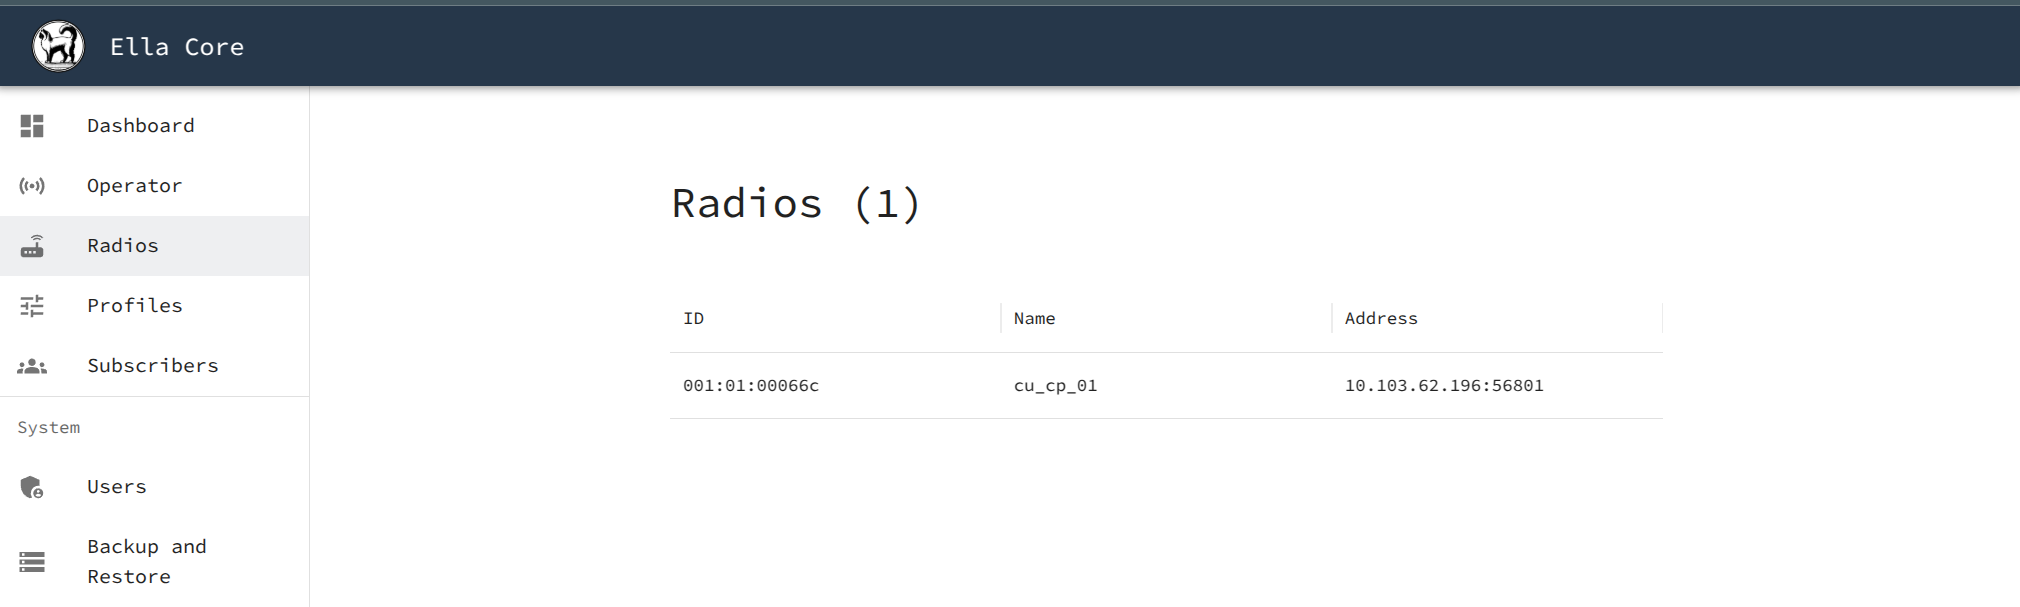
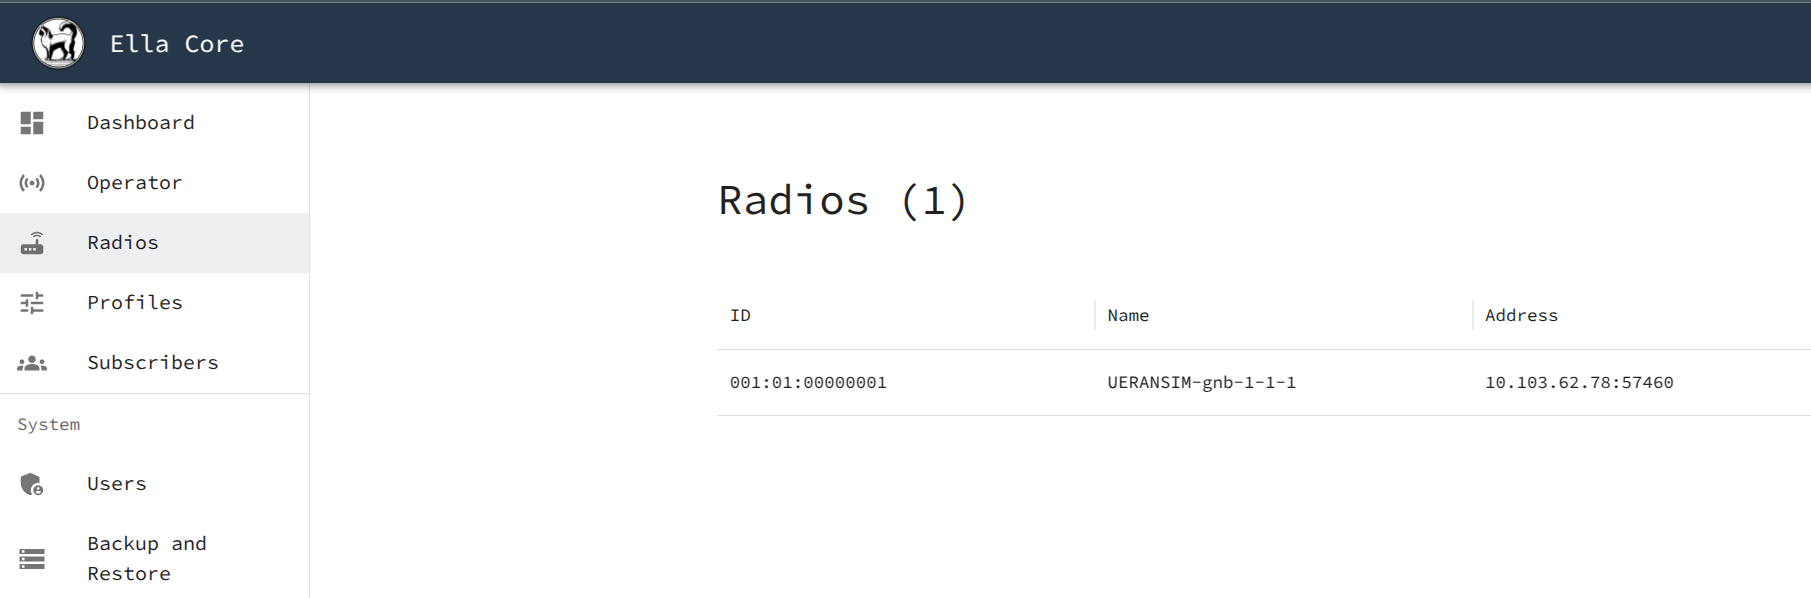
docs: add ue simulation to tutorial

diff --git a/internal/smf/producer/pdu_session.go b/internal/smf/producer/pdu_session.go
@@ -92,7 +92,7 @@ func HandlePDUSessionSMContextCreate(request models.PostSmContextsRequest, smCon
 		smContext.SubPduSessLog.Errorf("PDUSessionSMContextCreate, S-NSSAI[sst: %d, sd: %s] DNN[%s] does not match DNN Config",
 			createData.SNssai.Sst, createData.SNssai.Sd, createData.Dnn)
 		response := smContext.GeneratePDUSessionEstablishmentReject("DnnNotSupported")
-		return response, fmt.Errorf("SnssaiError")
+		return response, fmt.Errorf("dnn %s not supported", createData.Dnn)
 	}
 
 	// IP Allocation

diff --git a/docs/tutorials/getting_started.md b/docs/tutorials/getting_started.md
@@ -4,7 +4,7 @@ description: A hands-on introduction to Ella Core for new users.
 
 # Getting Started
 
-In this tutorial, we will deploy, initialize, and configure Ella Core. First, we will use [Multipass](https://canonical.com/multipass/docs) to create a virtual machine, install Ella Core, access the the UI, initialize Ella Core, and configure it. Then, we will create another virtual machine and install a 5G radio simulator, connect it to Ella Core, and validate that it is automatically detected.
+In this tutorial, we will deploy, initialize, and configure Ella Core. First, we will use [Multipass](https://canonical.com/multipass/docs) to create a virtual machine, install Ella Core, access the the UI, initialize Ella Core, and configure it. Then, we will create another virtual machine and install a 5G radio and User Equipment simulator, connect it to Ella Core, and validate that the radio is automatically detected. Finally, we will use the User Equipment simulator to validate that the subscriber can communicate with the network.
 
 ## Pre-requisites
 
@@ -190,121 +190,77 @@ exit
 
 ## Install a 5G Radio Simulator
 
-In this section, we will create another Multipass instance and install srsRAN, a 5G radio simulator. We will then connect the radio simulator to Ella Core.
+In this section, we will create another Multipass instance and install UERANSIM, a 5G radio simulator. We will then connect the radio simulator to Ella Core.
 
 ### Setup the Virtual Machine where a radio simulator will be installed
 
 Use Multipass to create a bare Ubuntu 24.04 instance:
 ```shell
-multipass launch noble --name=radio --memory=4G --cpus 2
+multipass launch noble --name=radio --memory=6G --cpus 2 --disk=10G  --network n3
 ```
 
-### Install and start srsRAN
+### Install and start the UERANSIM 5G radio
 
 Connect to the instance:
 ```shell
 multipass shell radio
 ```
 
-Install the srsRAN snap:
-```shell
-sudo snap install srsran5g --channel=edge
-```
-
-Connect the snap interfaces:
+Install the UERANSIM snap:
 
 ```shell
-sudo snap connect srsran5g:kernel-module-observe
-sudo snap connect srsran5g:network-control
-sudo snap connect srsran5g:process-control
-sudo snap connect srsran5g:system-observe
+sudo snap install ueransim --channel=edge
+sudo snap connect ueransim:network-control
 ```
 
-Create a configuration file for the radio and save it under `/var/snap/srsran5g/common/gnb2.yaml`:
+Edit the configuration file at `/var/snap/ueransim/common/gnb.yaml`:
 
-```yaml hl_lines="3 5"
-cu_cp:
-  amf:
-    addr: 10.103.62.227                 # The N2 interface address of Ella Core.
+```yaml hl_lines="9 10 13"
+mcc: '001'
+mnc: '01'
+
+nci: '0x000000010'
+idLength: 32
+tac: 1
+
+linkIp: 127.0.0.1
+ngapIp: 10.103.62.78       # The `ens3` IP address of the `radio` Multipass instance.
+gtpIp:  10.243.161.33      # The `ens4` IP address of the `radio` Multipass instance.
+
+amfConfigs:
+  - address: 10.103.62.49  # The `ens3` IP address of the `ella-core` Multipass instance.
     port: 38412
-    bind_addr: 10.103.62.196            # The local address to bind to (ens3).
-    supported_tracking_areas:
-      - tac: 1
-        plmn_list:
-          - plmn: "00101"
-            tai_slice_support_list:
-              - sst: 1
-                sd: 1056816
-  inactivity_timer: 7200
 
-ru_sdr:
-  device_driver: zmq
-  device_args: tx_port=tcp://127.0.0.1:2000,rx_port=tcp://127.0.0.1:2001,base_srate=23.04e6
-  srate: 23.04
-  tx_gain: 75
-  rx_gain: 75
+slices:
+  - sst: 0x1
+    sd: 0x102030
 
-cell_cfg:
-  dl_arfcn: 368500
-  band: 3
-  channel_bandwidth_MHz: 20
-  common_scs: 15
-  plmn: "00101"
-  tac: 1
-  pdcch:
-    common:
-      ss0_index: 0
-      coreset0_index: 12
-    dedicated:
-      ss2_type: common
-      dci_format_0_1_and_1_1: false
-  prach:
-    prach_config_index: 1
-  pdsch:
-    mcs_table: qam64
-  pusch:
-    mcs_table: qam64
-
-log:
-  filename: /tmp/gnb.log
-  all_level: info
-  hex_max_size: 0
-
-pcap:
-  mac_enable: false
-  mac_filename: /tmp/gnb_mac.pcap
-  ngap_enable: false
-  ngap_filename: /tmp/gnb_ngap.pcap
+ignoreStreamIds: true
 ```
 
 Modify the highlighted values:
 
-- `cu_cp.amf.addr`: The `ens3` IP addresses the `ella-core` Multipass instance.
-- `cu_cp.amf.bind_addr`: The `ens3` IP address of the `radio` Multipass instance.
+- `ngapIp`: The `ens3` IP address of the `radio` Multipass instance.
+- `gtpIp`: The `ens4` IP address of the `radio` Multipass instance.
+- `amfConfigs.address`: The `ens3` IP address of the `ella-core` Multipass instance.
 
 Start the 5G radio:
 
 ```shell
-srsran5g.gnb -c /var/snap/srsran5g/common/gnb.yaml
+ueransim.nr-gnb --config /var/snap/ueransim/common/gnb.yaml
 ```
 
 You should see the following output:
 
 ```shell
-ubuntu@radio2:~$ srsran5g.gnb -c /var/snap/srsran5g/common/gnb.yaml 
-
---== srsRAN gNB (commit 9d5dd742a) ==--
-
-
-The PRACH detector will not meet the performance requirements with the configuration {Format 0, ZCZ 0, SCS 1.25kHz, Rx ports 1}.
-Lower PHY in executor blocking mode.
-Available radio types: zmq.
-Cell pci=1, bw=20 MHz, 1T1R, dl_arfcn=368500 (n3), dl_freq=1842.5 MHz, dl_ssb_arfcn=368410, ul_freq=1747.5 MHz
-
-N2: Connection to AMF on 10.103.62.49:38412 completed
-==== gNB started ===
-Type <h> to view help
-
+ubuntu@radio:~$ ueransim.nr-gnb --config /var/snap/ueransim/common/gnb.yaml 
+UERANSIM v3.2.6
+[2025-01-18 16:38:41.616] [sctp] [info] Trying to establish SCTP connection... (10.103.62.49:38412)
+[2025-01-18 16:38:41.631] [sctp] [info] SCTP connection established (10.103.62.49:38412)
+[2025-01-18 16:38:41.631] [sctp] [debug] SCTP association setup ascId[3]
+[2025-01-18 16:38:41.631] [ngap] [debug] Sending NG Setup Request
+[2025-01-18 16:38:41.635] [ngap] [debug] NG Setup Response received
+[2025-01-18 16:38:41.635] [ngap] [info] NG Setup procedure is successful
 ```
 
 Leave the radio running.
@@ -312,6 +268,184 @@ Leave the radio running.
 On your browser, navigate to the Ella Core UI and click on the `Radios` tab. You should see the radio connected.
 
 ![Connected Radio](../images/connected_radio.png){ align=center }
+
+### Install and start the srsRAN User Equipment (UE) simulator
+
+Open a new terminal window and connect to the `radio` Multipass instance:
+
+```shell
+multipass shell radio
+```
+
+Edit the configuration file at `/var/snap/ueransim/common/gnb.yaml`:
+
+```yaml hl_lines="1 9 10"
+supi: 'imsi-001010100007487' # The IMSI of the subscriber you created
+mcc: '001'
+mnc: '01'
+protectionScheme: 0
[1 lines of base64/hex data omitted]
+homeNetworkPublicKeyId: 1
+routingIndicator: '0000'
+
+key: '5122250214c33e723a5dd523fc145fc0'  # The key of the subscriber you created
+op: '981d464c7c52eb6e5036234984ad0bcf'   # The opc of the subscriber you created
+opType: 'OPC'
+amf: '8000'
+imei: '356938035643803'
+imeiSv: '4370816125816151'
+
+gnbSearchList:
+  - 127.0.0.1
+
+uacAic:
+  mps: false
+  mcs: false
+
+uacAcc:
+  normalClass: 0
+  class11: false
+  class12: false
+  class13: false
+  class14: false
+  class15: false
+
+sessions:
+  - type: 'IPv4'
+    apn: 'internet'
+    slice:
+      sst: 0x01
+      sd: 0x102030
+
+configured-nssai:
+  - sst: 0x01
+    sd: 0x102030
+
+default-nssai:
+  - sst: 1
+    sd: 1
+
+integrity:
+  IA1: true
+  IA2: true
+  IA3: true
+
+ciphering:
+  EA1: true
+  EA2: true
+  EA3: true
+
+integrityMaxRate:
+  uplink: 'full'
+  downlink: 'full'
+```
+
+Modify the highlighted values:
+- `supi`: The `imsi` value used by the UE with the prefix `imsi-`.
+- `key`: The `key` value used by the UE.
+- `op`: The `opc` value used by the UE.
+
+Those values can be found in the Ella Core UI under the `Subscribers` tab. Click on the View button of the subscriber you created earlier.
+
+Start the UE:
+
+```shell
+sudo ueransim.nr-ue --config /var/snap/ueransim/common/ue.yaml
+```
+ 
+You should see the following output:
+
+```shell
+^Cubuntu@radio:~sudo ueransim.nr-ue --config /var/snap/ueransim/common/ue.yamlml
+UERANSIM v3.2.6
+[2025-01-18 16:45:36.427] [nas] [info] UE switches to state [MM-DEREGISTERED/PLMN-SEARCH]
+[2025-01-18 16:45:36.428] [rrc] [debug] New signal detected for cell[1], total [1] cells in coverage
+[2025-01-18 16:45:36.428] [nas] [info] Selected plmn[001/01]
+[2025-01-18 16:45:36.428] [rrc] [info] Selected cell plmn[001/01] tac[1] category[SUITABLE]
+[2025-01-18 16:45:36.428] [nas] [info] UE switches to state [MM-DEREGISTERED/PS]
+[2025-01-18 16:45:36.428] [nas] [info] UE switches to state [MM-DEREGISTERED/NORMAL-SERVICE]
+[2025-01-18 16:45:36.428] [nas] [debug] Initial registration required due to [MM-DEREG-NORMAL-SERVICE]
+[2025-01-18 16:45:36.428] [nas] [debug] UAC access attempt is allowed for identity[0], category[MO_sig]
+[2025-01-18 16:45:36.428] [nas] [debug] Sending Initial Registration
+[2025-01-18 16:45:36.428] [nas] [info] UE switches to state [MM-REGISTER-INITIATED]
+[2025-01-18 16:45:36.429] [rrc] [debug] Sending RRC Setup Request
+[2025-01-18 16:45:36.429] [rrc] [info] RRC connection established
+[2025-01-18 16:45:36.429] [rrc] [info] UE switches to state [RRC-CONNECTED]
+[2025-01-18 16:45:36.429] [nas] [info] UE switches to state [CM-CONNECTED]
+[2025-01-18 16:45:36.452] [nas] [debug] Authentication Request received
+[2025-01-18 16:45:36.452] [nas] [debug] Received SQN [000000000025]
+[2025-01-18 16:45:36.452] [nas] [debug] SQN-MS [000000000000]
+[2025-01-18 16:45:36.454] [nas] [debug] Security Mode Command received
+[2025-01-18 16:45:36.454] [nas] [debug] Selected integrity[1] ciphering[0]
+[2025-01-18 16:45:36.457] [nas] [debug] Registration accept received
+[2025-01-18 16:45:36.457] [nas] [info] UE switches to state [MM-REGISTERED/NORMAL-SERVICE]
+[2025-01-18 16:45:36.457] [nas] [debug] Sending Registration Complete
+[2025-01-18 16:45:36.457] [nas] [info] Initial Registration is successful
+[2025-01-18 16:45:36.457] [nas] [debug] Sending PDU Session Establishment Request
+[2025-01-18 16:45:36.457] [nas] [debug] UAC access attempt is allowed for identity[0], category[MO_sig]
+[2025-01-18 16:45:36.694] [nas] [debug] PDU Session Establishment Accept received
+[2025-01-18 16:45:36.694] [nas] [info] PDU Session establishment is successful PSI[1]
+[2025-01-18 16:45:36.736] [app] [info] Connection setup for PDU session[1] is successful, TUN interface[uesimtun0, 10.45.0.1] is up.
+```
+
+Leave the UE running.
+
+### Validate the connection
+
+Open a new terminal window and connect to the `radio` Multipass instance:
+
+```shell
+multipass shell radio
+```
+
+Validate that a new interface has been created:
+
+```shell
+ubuntu@radio:~$ ip a
+1: lo: <LOOPBACK,UP,LOWER_UP> mtu 65536 qdisc noqueue state UNKNOWN group default qlen 1000
+    link/loopback 00:00:00:00:00:00 brd 00:00:00:00:00:00
+    inet 127.0.0.1/8 scope host lo
+       valid_lft forever preferred_lft forever
+    inet6 ::1/128 scope host noprefixroute 
+       valid_lft forever preferred_lft forever
+2: ens3: <BROADCAST,MULTICAST,UP,LOWER_UP> mtu 1500 qdisc fq_codel state UP group default qlen 1000
+    link/ether 52:54:00:9d:1f:b1 brd ff:ff:ff:ff:ff:ff
+    altname enp0s3
+    inet 10.103.62.78/24 metric 100 brd 10.103.62.255 scope global ens3
+       valid_lft forever preferred_lft forever
+    inet6 fe80::5054:ff:fe9d:1fb1/64 scope link 
+       valid_lft forever preferred_lft forever
+3: ens4: <BROADCAST,MULTICAST,UP,LOWER_UP> mtu 1500 qdisc fq_codel state UP group default qlen 1000
+    link/ether 52:54:00:97:9f:1d brd ff:ff:ff:ff:ff:ff
+    altname enp0s4
+    inet 10.243.161.33/24 metric 200 brd 10.243.161.255 scope global dynamic ens4
+       valid_lft 2978sec preferred_lft 2978sec
+    inet6 fd42:2ccb:7e5b:6a97:5054:ff:fe97:9f1d/64 scope global mngtmpaddr noprefixroute 
+       valid_lft forever preferred_lft forever
+    inet6 fe80::5054:ff:fe97:9f1d/64 scope link 
+       valid_lft forever preferred_lft forever
+4: uesimtun0: <POINTOPOINT,PROMISC,NOTRAILERS,UP,LOWER_UP> mtu 1400 qdisc fq_codel state UNKNOWN group default qlen 500
+    link/none 
+    inet 10.45.0.1/32 scope global uesimtun0
+       valid_lft forever preferred_lft forever
+    inet6 fe80::44dd:c457:46da:c04f/64 scope link stable-privacy 
+       valid_lft forever preferred_lft forever
+```
+
+You should see a new interface `uesimtun0` with an IP address from the subnet configured in the profile.
+
+This IP address is your Subscriber's IP address, and it is the IP address that the UE will use to communicate with the network, browse the internet, etc.
+
+For instance, you can use the `ping` command to validate that the UE can communicate with the network:
+
+```shell
+ping -I uesimtun0 8.8.8.8
+```
+
+!!! success
+    
+    You have successfully connected a 5G radio simulator and a UE simulator to Ella Core. You can now use the UE to browse the internet, make calls, etc.
+
 
 ## Destroy the Tutorial Environment
 
